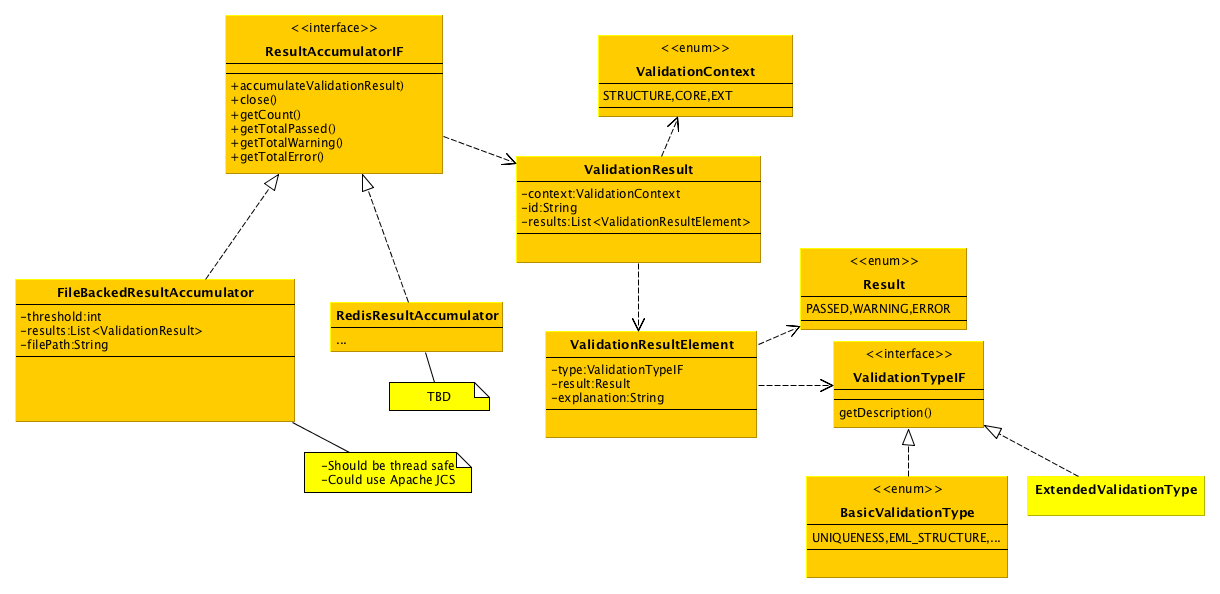
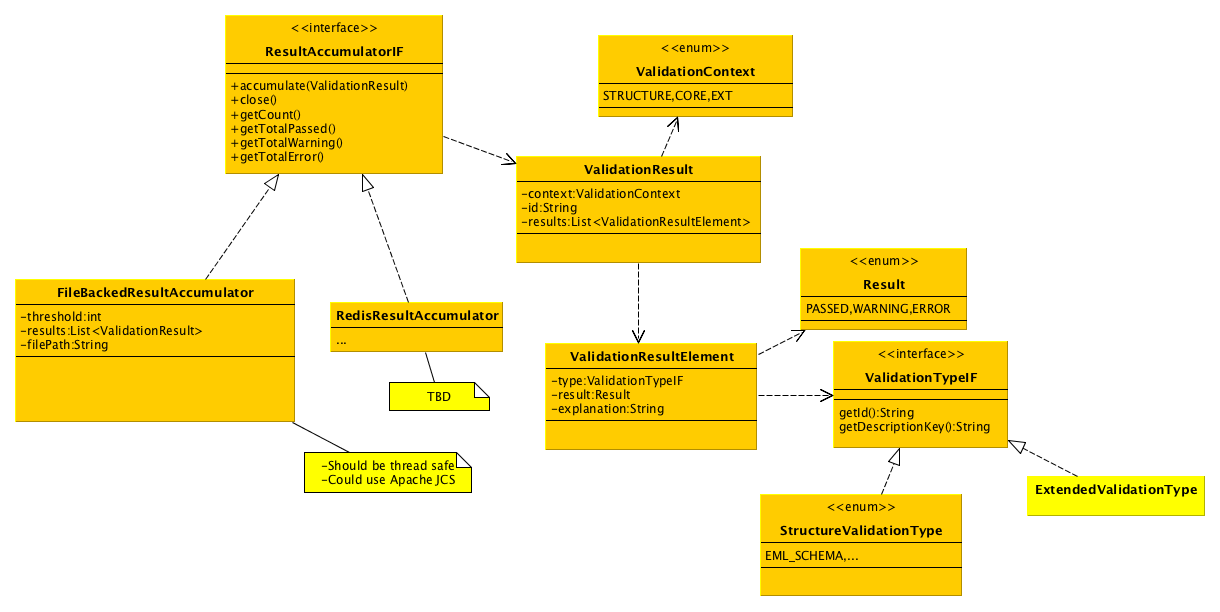
work on ValidationType

diff --git a/dwca-validator-lib/src/main/java/org/gbif/dwc/validator/result/type/StructureValidationType.java b/dwca-validator-lib/src/main/java/org/gbif/dwc/validator/result/type/StructureValidationType.java
@@ -1,0 +1,30 @@
+package org.gbif.dwc.validator.result.type;
+
+/**
+ * Validation types related to archive structure.
+ * 
+ * @author cgendreau
+ */
+public enum StructureValidationType implements ValidationTypeIF {
+  EML_SCHEMA(1, "eml.schema");
+
+  private static final String PREFIX = "SV-";
+  private String id;
+  private String descriptionKey;
+
+  private StructureValidationType(int id, String descriptionKey) {
+    this.id = PREFIX + id;
+    this.descriptionKey = descriptionKey;
+  }
+
+  @Override
+  public String getDescriptionKey() {
+    return descriptionKey;
+  }
+
+  @Override
+  public String getId() {
+    return id;
+  }
+
+}

diff --git a/dwca-validator-lib/src/main/java/org/gbif/dwc/validator/result/type/ValidationTypeIF.java b/dwca-validator-lib/src/main/java/org/gbif/dwc/validator/result/type/ValidationTypeIF.java
@@ -1,12 +1,24 @@
 package org.gbif.dwc.validator.result.type;
 
-
+/**
+ * Common interface for validation types.
+ * 
+ * @author cgendreau
+ */
 public interface ValidationTypeIF {
 
   /**
-   * Get the textual representation of this validation type.
+   * Get the description key of this validation type.
+   * This key is used in resource bundle to get the textual representation of this validation type.
    * 
    * @return
    */
-  public String getDescription();
+  public String getDescriptionKey();
+
+  /**
+   * Id of this validation type.
+   * 
+   * @return
+   */
+  public String getId();
 }
